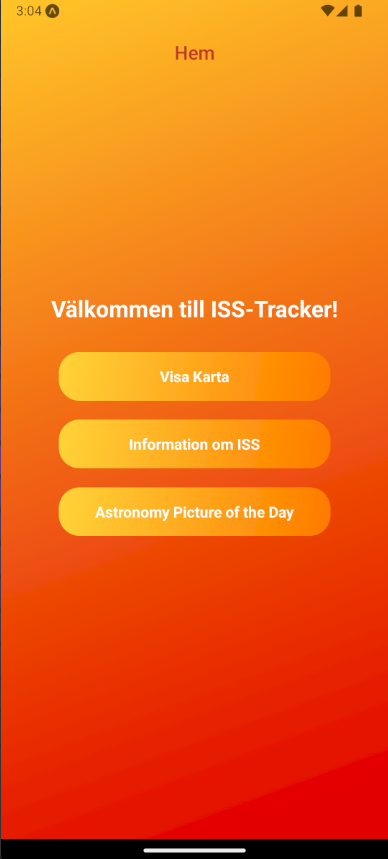
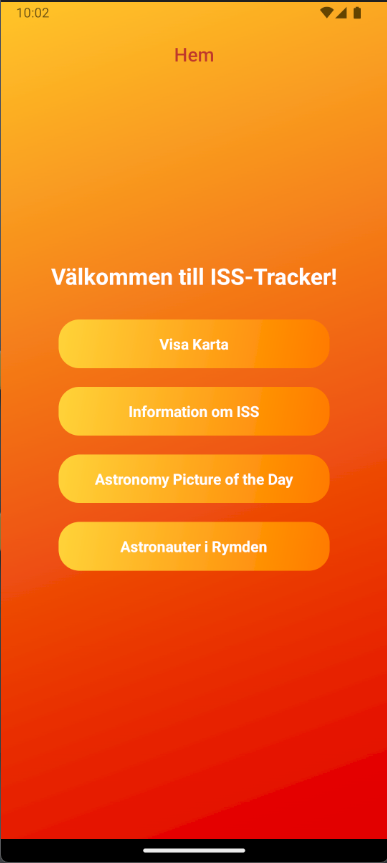
fixed the readme file, as well as text link errors

diff --git a/screens/AstrosScreen.js b/screens/AstrosScreen.js
@@ -22,7 +22,7 @@ const AstrosScreen = () => {
     <SafeAreaView style={styles.safeArea}>
       <ScrollView style={styles.container} contentContainerStyle={styles.scrollContent}>
         <Text style={styles.title}>Astronauter i rymden</Text>
-        <Text style={styles.count}>Antal: {astronauts.length} personer</Text> {/* Visar antal astronauter */}
+        <Text style={styles.count}>Antal: {astronauts.length} personer </Text>
         {astronauts.map((astronaut, index) => (
           <View key={index} style={styles.card}>
             <Text style={styles.name}>{astronaut.name}</Text>

diff --git a/README.md b/README.md
@@ -2,8 +2,7 @@
 
 # ISS Tracker
 
-En interaktiv mobilapplikation som visar realtidspositionen för den internationella rymdstationen (ISS).
-Applikationen använder modern teknologi som React Native och Expo för att leverera en sömlös användarupplevelse.
+En interaktiv mobilapplikation som visar realtidspositionen för den internationella rymdstationen (ISS) samt information om astronauter i rymden och dagens astronomiska bild. Applikationen använder modern teknologi som React Native och Expo för att leverera en sömlös användarupplevelse.
 
 
 # 📋 Funktioner
@@ -11,12 +10,14 @@ Applikationen använder modern teknologi som React Native och Expo för att leve
 - Realtidspositionering av ISS med hjälp av Google Maps.
 - Elegant användargränssnitt med hjälp av React Native komponenter och animationer.
 - Integration med API:er för datainhämtning om ISS.
+- Visa information om ISS och astronauter som för närvarande är i rymden.
+- Dagens astronomiska bild från NASA med en detaljerad beskrivning.
 
 
 # 🛠 Teknikstack
 - Frontend: React Native, Expo
 - Navigation: React Navigation
-- API: Axios, Open Notify ISS API, NASA Astronomy Picture of the Day API
+- API: Axios, Open Notify ISS API, Open Notify Astronaut API, NASA Astronomy Picture of the Day API
 - Kartor: React Native Maps
 - UI: React Native Vector Icons och Linear Gradient
 
@@ -61,6 +62,10 @@ Klona detta repo:
 - URL: http://api.open-notify.org/iss-now.json
 - Beskrivning: Hämtar realtidsdata om ISS position.
 
+## Astronaut API
+- URL: http://api.open-notify.org/astros.json
+- Beskrivning: Hämtar data om astronauter som för närvarande är i rymden, inklusive deras namn och farkost.
+
 ## NASA Astronomy Picture of the Day API
 - URL: https://api.nasa.gov/planetary/apod?api_key=DEMO_KEY
 - Beskrivning: Hämtar en bild och beskrivning från NASA:s Astronomy Picture of the Day.
@@ -103,12 +108,14 @@ The application leverages modern technologies like React Native and Expo to prov
 - Real-time positioning of the ISS using Google Maps.
 - Elegant user interface using React Native components and animations.
 - Integration with APIs to fetch ISS-related data.
+- View information about ISS and astronauts currently in space.
+- NASA's Astronomy Picture of the Day with detailed description.
 
 
 # 🛠 Tech Stack
 - Frontend: React Native, Expo
 - Navigation: React Navigation
-- API: Axios, Open Notify ISS API, NASA Astronomy Picture of the Day API
+- API: Axios, Open Notify ISS API, Open Notify Astronaut API, NASA Astronomy Picture of the Day API.
 - Maps: React Native Maps
 - UI: React Native Vector Icons and Linear Gradient
 
@@ -153,6 +160,10 @@ Klona detta repo:
 - URL: http://api.open-notify.org/iss-now.json
 - Description: Fetches real-time position data of the ISS.
 
+## Astronaut API
+- URL: http://api.open-notify.org/astros.json
+- Description: Fetches data about astronauts currently in space, including their names and spacecraft.
+
 ## NASA Astronomy Picture of the Day API
 - URL: https://api.nasa.gov/planetary/apod?api_key=DEMO_KEY
 - Description: Fetches an image and description from NASA's Astronomy Picture of the Day.
@@ -182,6 +193,7 @@ Klona detta repo:
 
 ![Start sidan](img/Start.png "Start / Home")
 ![Information sida](img/info.png "Info")
+![Astronuter sida](img/Astronuter.png "Astronuter")
 ![Astronomy Picture of the Day](img/APOD.png "APOD")
 ![Karta start](img/map1.png "Map start")
 ![Stor karta](img/map2.png "Map big pic")
